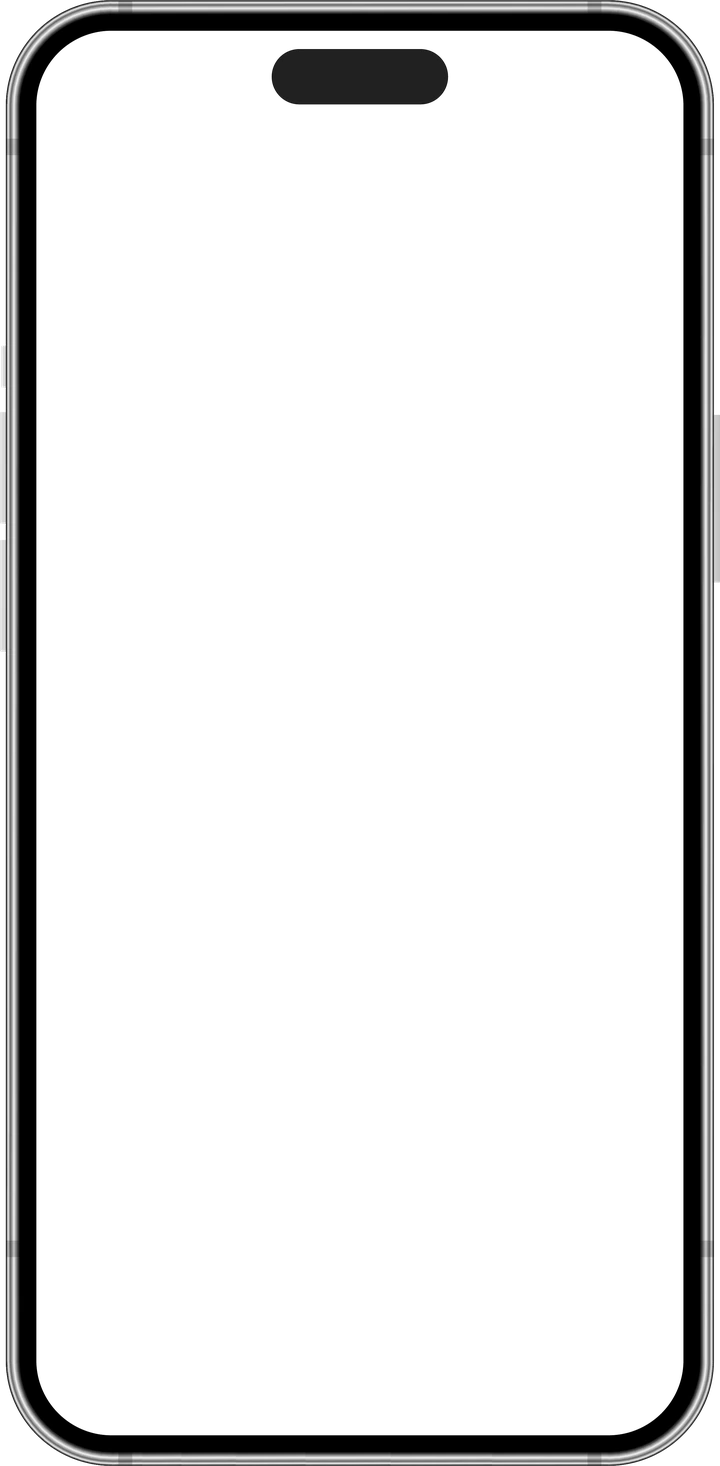
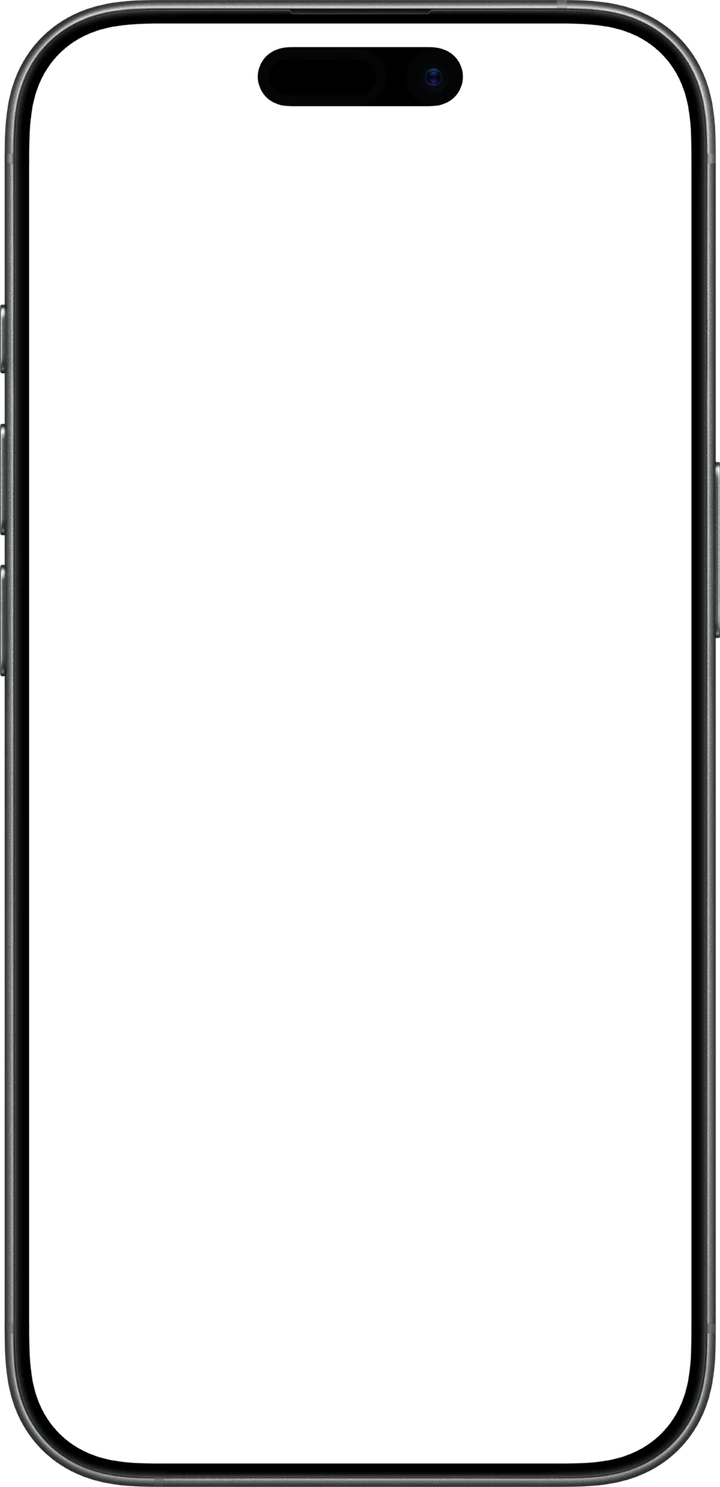
Spletna stran: nov okvir iPhone za vse mockupe telefona
- Trije telefoni v razdelku »Na telefonu in računalniku« in telefon v naslovnem
  delu uporabljajo isti nov okvir (posnetek + okvir na vrhu).
- Zaslon je obrezan z masko iz odprtine okvirja, zato se koti natančno ujemajo.
- Telefon v naslovnem delu je zdaj od spredaj (plačilo z UPN QR, sledi temi),
  stari zapečeni sliki iPhone in neuporabljeni phone-frame.png odstranjeni.

Changed region(s): [[0.0, 0.0, 1.0, 1.0]]

diff --git a/web/public/index.html b/web/public/index.html
@@ -85,8 +85,13 @@
           <div class="hero-visual" aria-hidden="true">
             <img class="hero-mac only-dark" src="/img/macbook-dark.webp" alt="" width="1800" height="1482" fetchpriority="high" />
             <img class="hero-mac only-light" src="/img/macbook-light.webp" alt="" width="1800" height="1482" />
-            <img class="hero-iphone only-dark" src="/img/iphone-dark.webp" alt="" width="560" height="1161" />
-            <img class="hero-iphone only-light" src="/img/iphone-light.webp" alt="" width="560" height="1161" />
+            <div class="device hero-iphone">
+              <div class="device-screen">
+                <img class="only-dark" src="/img/tenant-pay-dark.webp" alt="" width="640" height="1385" />
+                <img class="only-light" src="/img/tenant-pay-light.webp" alt="" width="640" height="1385" />
+              </div>
+              <img class="device-frame" src="/img/phone-frame.webp" alt="" width="720" height="1487" />
+            </div>
           </div>
         </div>
       </section>
@@ -237,7 +242,7 @@
                   <img class="only-dark" src="/img/tenant-home-dark.webp" alt="Najemnikov pregled leta in obveznosti" width="640" height="1385" loading="lazy" />
                   <img class="only-light" src="/img/tenant-home-light.webp" alt="Najemnikov pregled leta in obveznosti" width="640" height="1385" loading="lazy" />
                 </div>
-                <img class="device-frame" src="/img/phone-frame.webp" alt="" width="720" height="1466" aria-hidden="true" />
+                <img class="device-frame" src="/img/phone-frame.webp" alt="" width="720" height="1487" aria-hidden="true" />
               </div>
               <figcaption>Leto najema na en pogled</figcaption>
             </figure>
@@ -247,7 +252,7 @@
                   <img class="only-dark" src="/img/tenant-pay-dark.webp" alt="Plačilni nalog z UPN QR kodo" width="640" height="1385" loading="lazy" />
                   <img class="only-light" src="/img/tenant-pay-light.webp" alt="Plačilni nalog z UPN QR kodo" width="640" height="1385" loading="lazy" />
                 </div>
-                <img class="device-frame" src="/img/phone-frame.webp" alt="" width="720" height="1466" aria-hidden="true" />
+                <img class="device-frame" src="/img/phone-frame.webp" alt="" width="720" height="1487" aria-hidden="true" />
               </div>
               <figcaption>Plačilo z UPN QR</figcaption>
             </figure>
@@ -257,7 +262,7 @@
                   <img class="only-dark" src="/img/messages-dark.webp" alt="Sporočila med najemodajalcem in najemnikom" width="640" height="1385" loading="lazy" />
                   <img class="only-light" src="/img/messages-light.webp" alt="Sporočila med najemodajalcem in najemnikom" width="640" height="1385" loading="lazy" />
                 </div>
-                <img class="device-frame" src="/img/phone-frame.webp" alt="" width="720" height="1466" aria-hidden="true" />
+                <img class="device-frame" src="/img/phone-frame.webp" alt="" width="720" height="1487" aria-hidden="true" />
               </div>
               <figcaption>Sporočila ob najemu</figcaption>
             </figure>

diff --git a/web/public/site.css b/web/public/site.css
@@ -431,17 +431,18 @@ h3 {
 html:not(.dark) .hero-visual::before {
   background: radial-gradient(closest-side, rgb(255 255 255 / 0.65), transparent);
 }
-/* Device mockups (MacBook + iPhone) rendered from the PSD mockups with the app's screenshots,
-   status bar, glass glare and soft shadows baked in. */
+/* MacBook mockup rendered from the PSD with the app's screenshot baked in; the iPhone in front of it is
+   the same .device as in the section below (screenshot + frame), floating, so it gets a soft shadow. */
 .hero-mac {
   position: relative;
   width: 100%;
 }
-.hero-iphone {
+.hero-visual .hero-iphone {
   position: absolute;
-  right: -2%;
-  bottom: 2%;
-  width: 34%;
+  right: 2%;
+  bottom: 0;
+  width: 25%;
+  filter: drop-shadow(0 24px 32px rgb(0 0 0 / 0.28));
 }
 .browser {
   margin: 0;
@@ -466,21 +467,23 @@ html:not(.dark) .hero-visual::before {
 .phone {
   margin: 0;
 }
-/* Phone mockup: the screenshot sits in the screen area, the frame image (with the island) lies on top. */
+/* Phone mockup: the screenshot sits in the screen area, the frame image (with the island) lies on top.
+   The mask is the frame's own screen opening (exact rounded corners); box values are measured from it. */
 .device {
   position: relative;
-  aspect-ratio: 720 / 1466;
+  aspect-ratio: 1311 / 2708;
 }
 .device-screen {
   position: absolute;
-  left: 5.059%;
-  top: 2.104%;
-  width: 89.841%;
-  height: 95.792%;
+  left: 3.738%;
+  top: 1.44%;
+  width: 92.601%;
+  height: 97.12%;
   overflow: hidden;
-  border-radius: 10.9% / 5.02%;
+  -webkit-mask: url(/img/phone-screen-mask.png) center / 100% 100% no-repeat;
+  mask: url(/img/phone-screen-mask.png) center / 100% 100% no-repeat;
   /* Status bar strip under the island (padding % is of the device width), in the app's background colour. */
-  padding-top: 11.5%;
+  padding-top: 12.6%;
   background: var(--surface);
 }
 .device-screen img {
